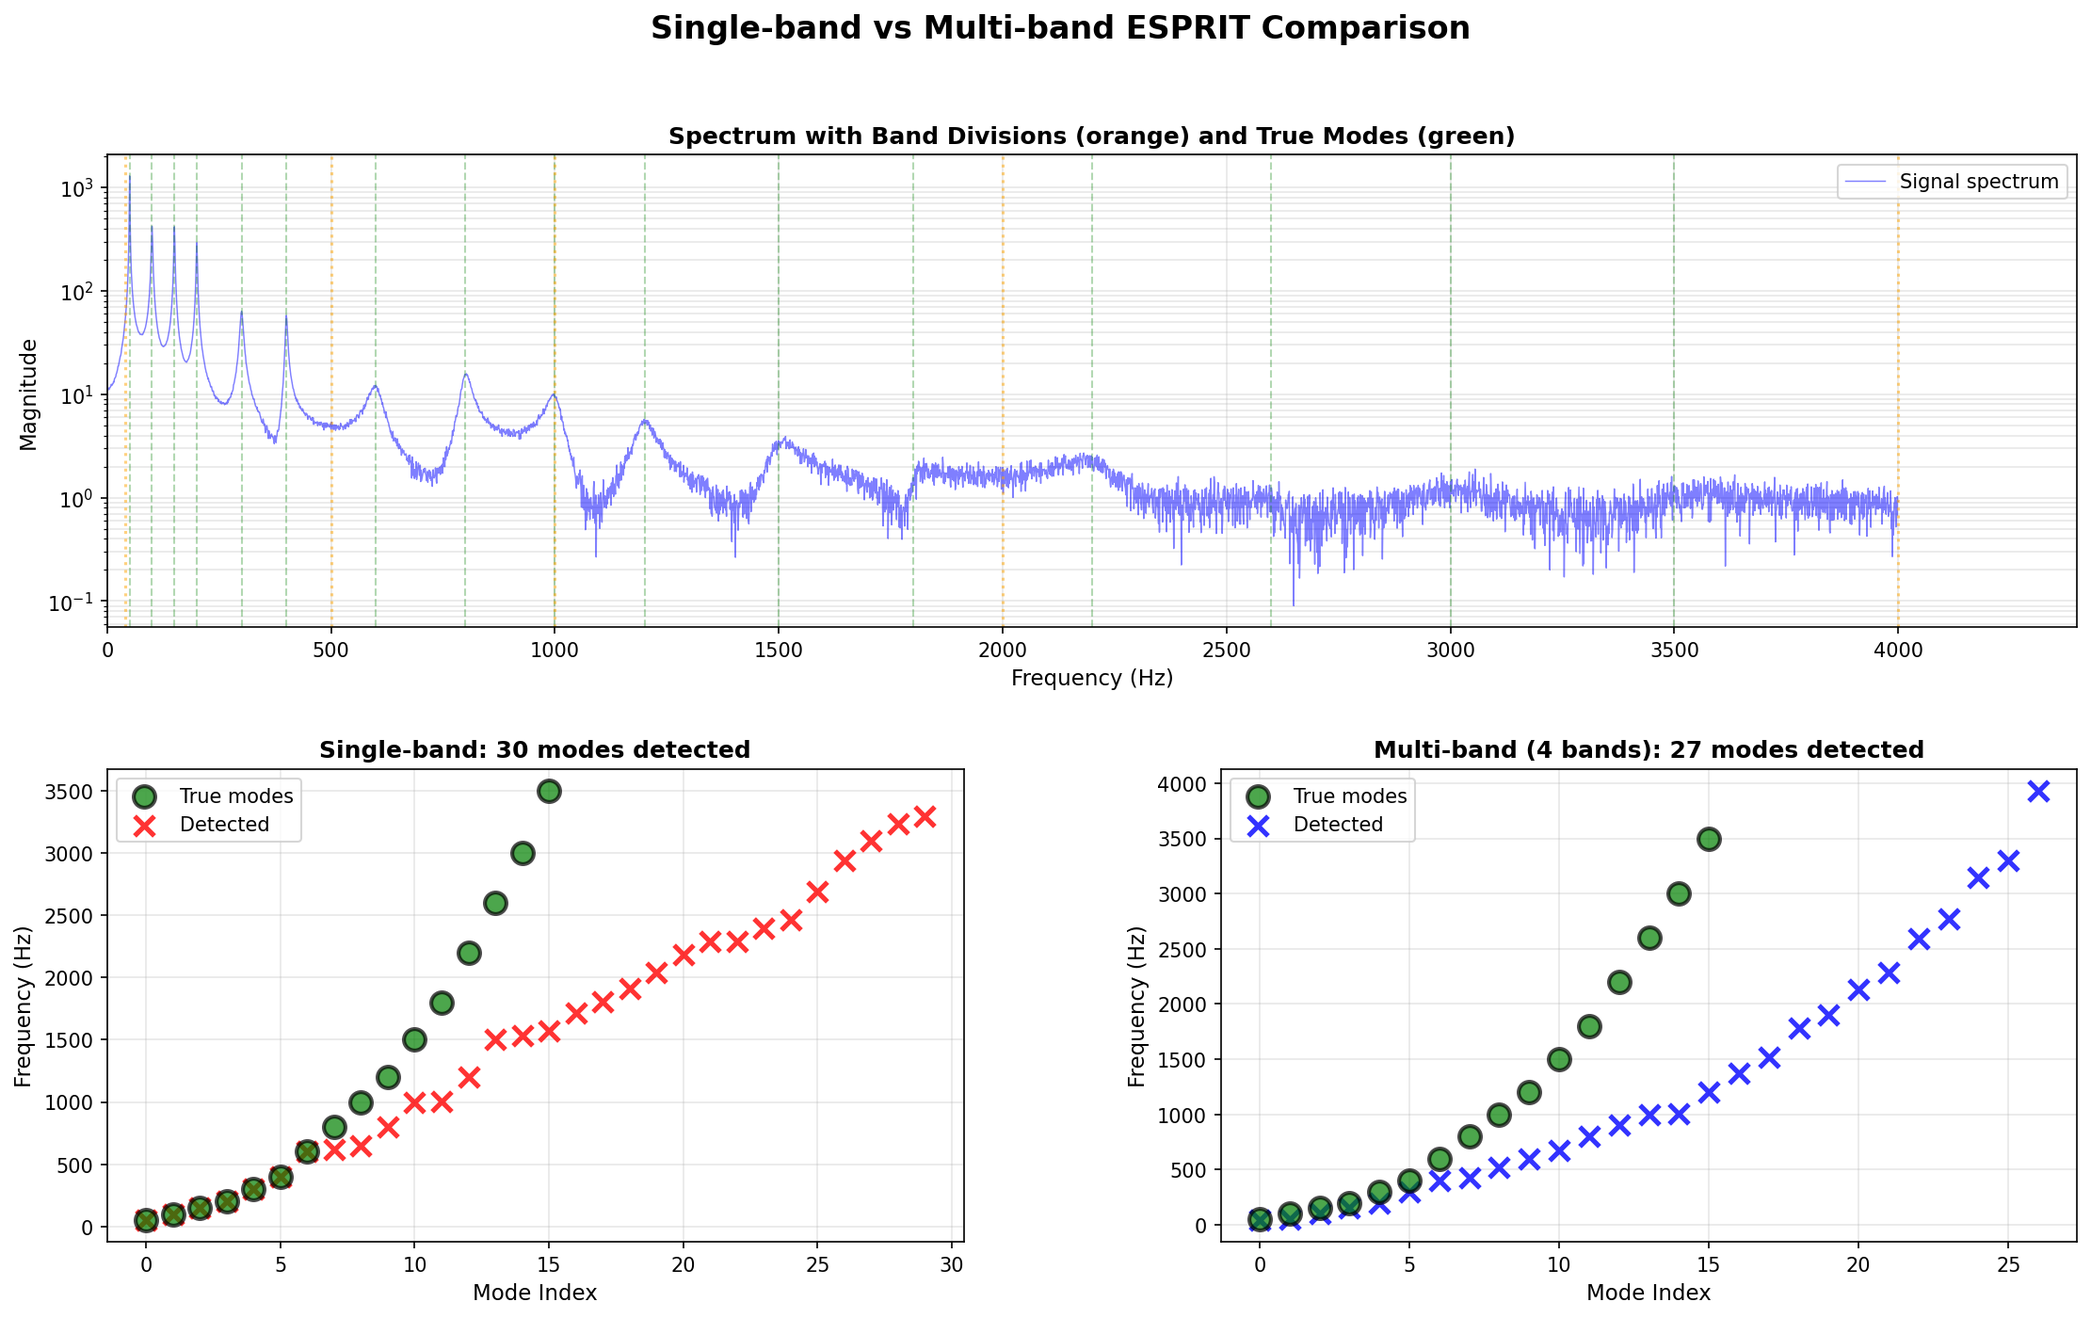
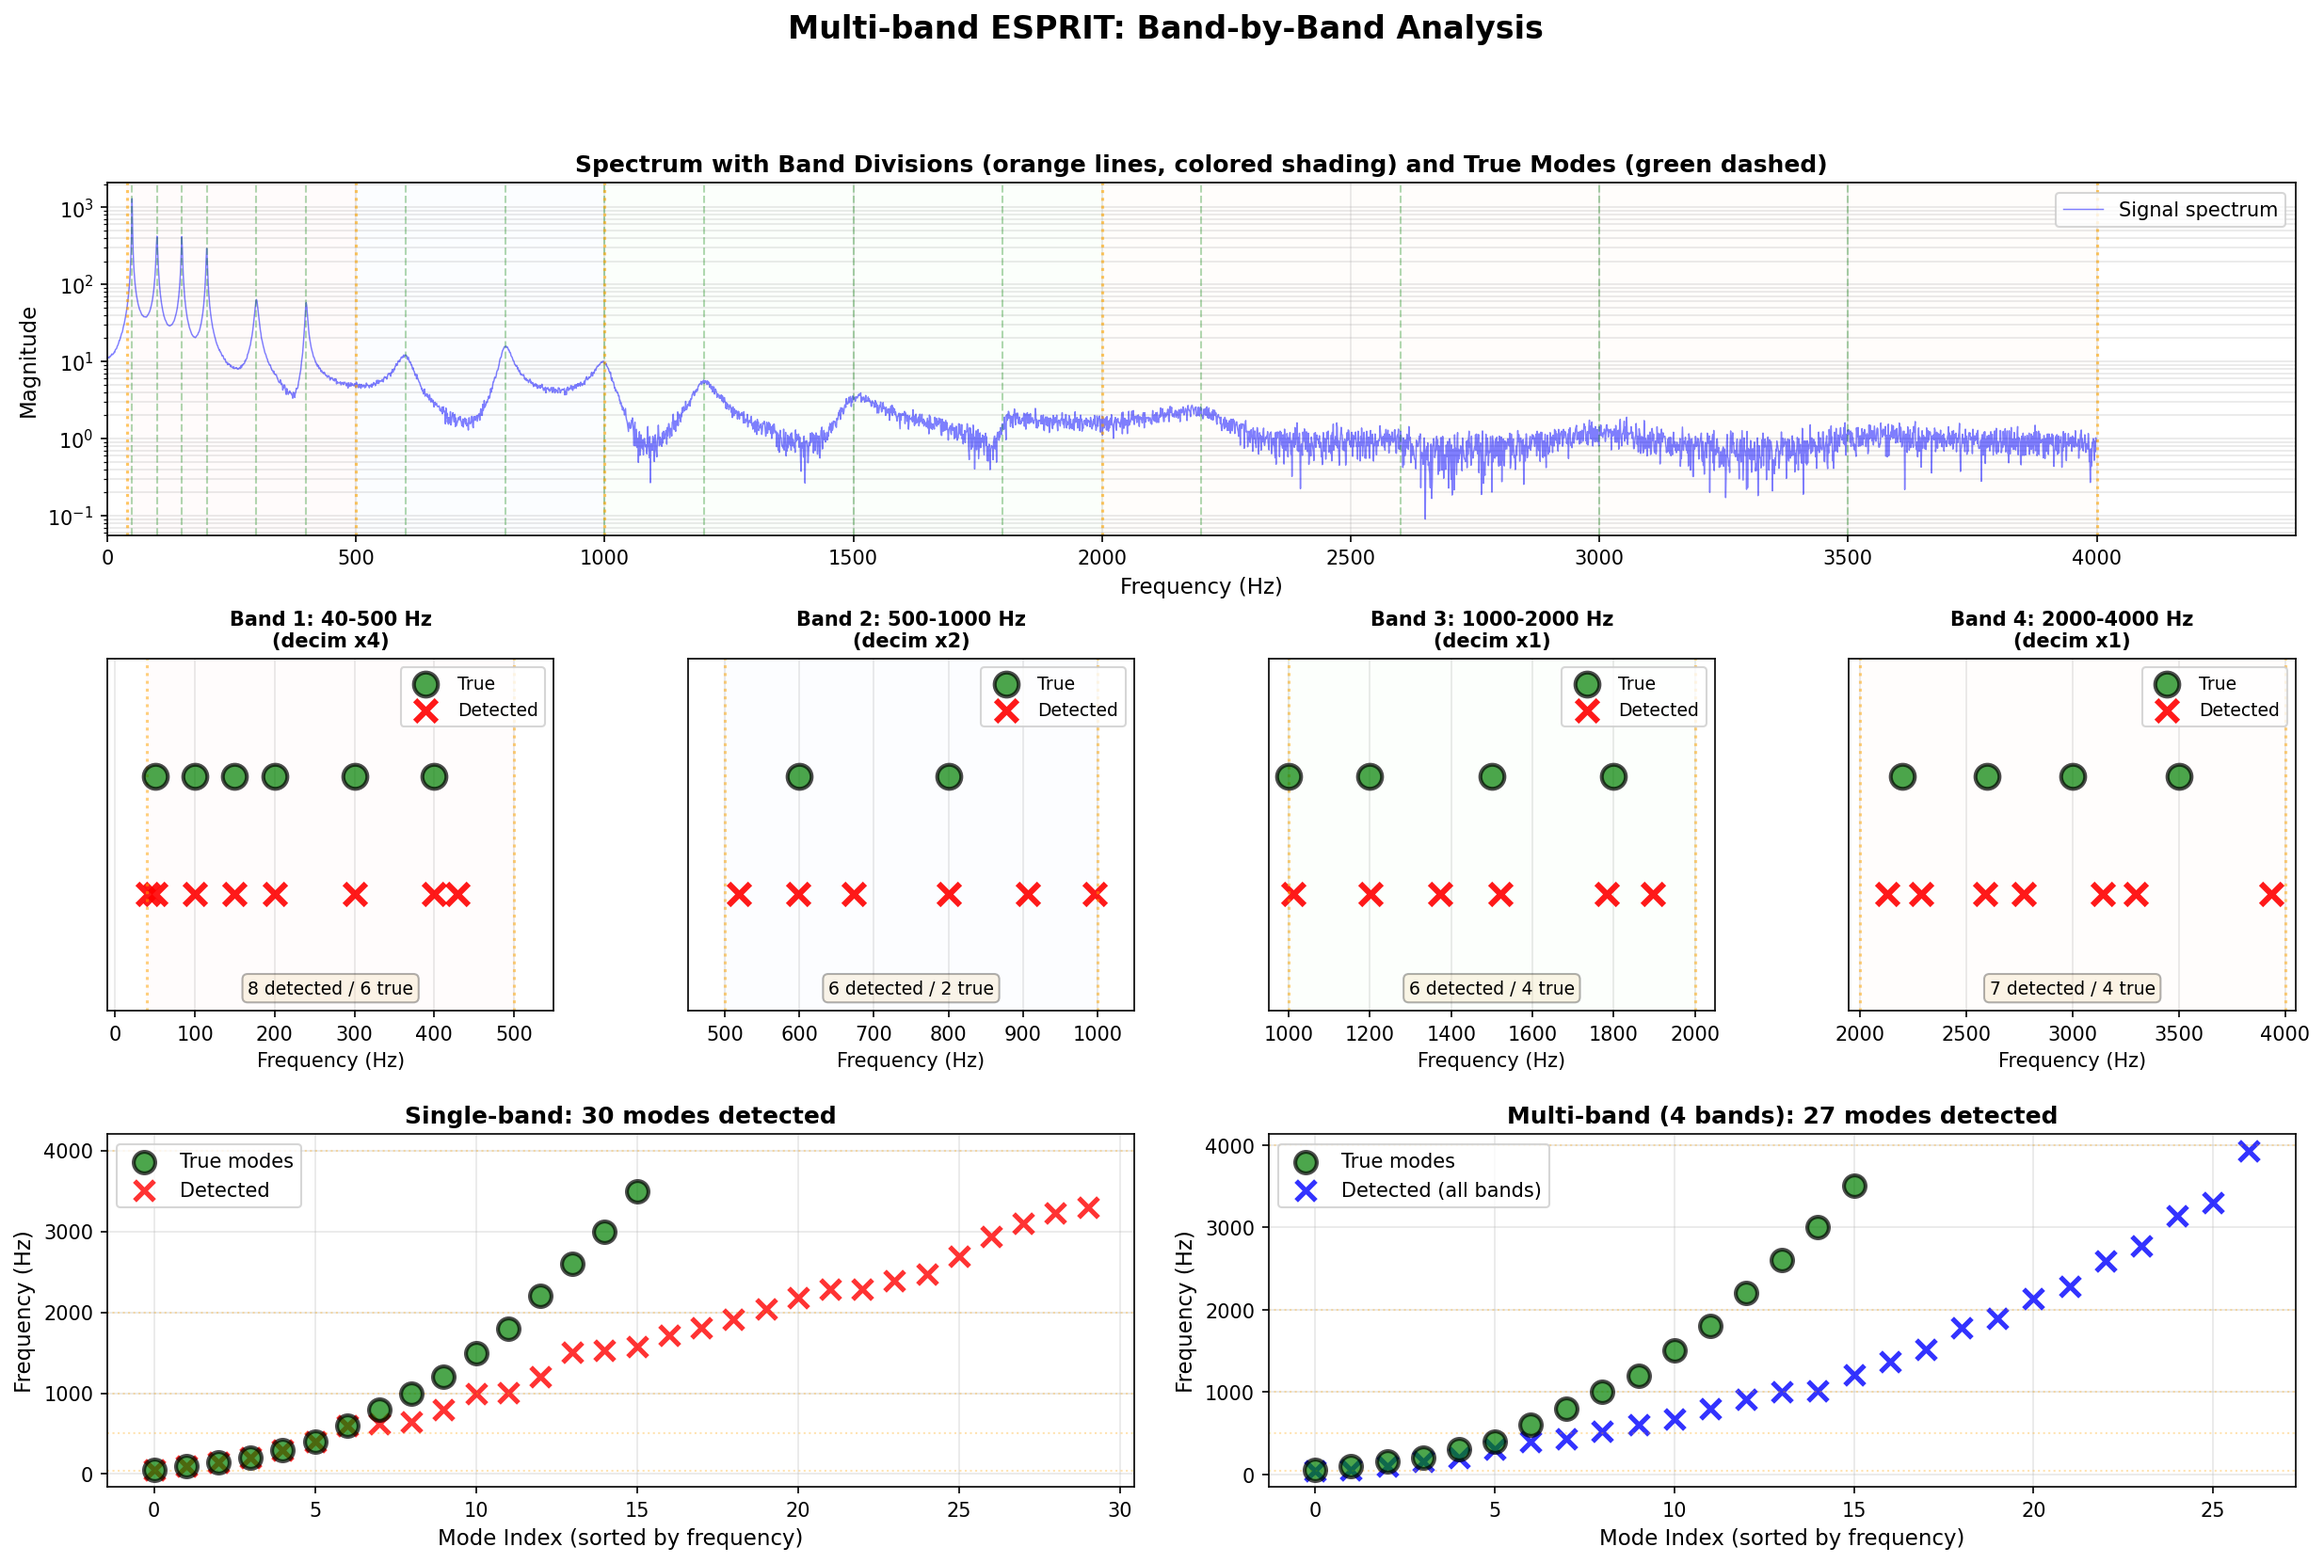
feat: Add band-by-band visualization to multi-band test
Enhanced visualization with 3-row layout:

Row 1 (top): FFT spectrum with colored band shading
- Band 1 (red): 40-500 Hz
- Band 2 (blue): 500-1000 Hz
- Band 3 (green): 1000-2000 Hz
- Band 4 (yellow): 2000-4000 Hz
- Orange lines mark band boundaries
- Green dashed lines mark true mode frequencies

Row 2 (middle): 4 band-specific subplots
- Each shows detected (red X) vs true (green O) modes
- Y-axis removed (just frequency on X-axis)
- Text box shows "N detected / M true" for each band
- Clearly visualizes which modes were found in each band

Row 3 (bottom): Overall comparison
- Left: Single-band detected modes (red X)
- Right: Multi-band combined modes (blue X)
- Both compared against true modes (green O)
- Band boundaries shown as horizontal lines

Results clearly show:
- Band 1: 8/6 modes (2 spurious, good low-freq detection)
- Band 2: 6/2 modes (4 spurious)
- Band 3: 6/4 modes (2 spurious)
- Band 4: 7/4 modes (3 spurious)

Multi-band still 1.81x faster (10.9s vs 19.7s) with similar accuracy.

diff --git a/ESPRIT/test_multiband_comparison.py b/ESPRIT/test_multiband_comparison.py
@@ -341,13 +341,13 @@ def run_comparison_test():
 def create_comparison_plots(true_modes, result_single, result_multi, signal_data, fs):
     """Create visualization comparing single-band vs multi-band."""
 
-    fig = plt.figure(figsize=(18, 10))
-    gs = GridSpec(2, 2, figure=fig, hspace=0.3, wspace=0.3)
+    fig = plt.figure(figsize=(20, 12))
+    gs = GridSpec(3, 4, figure=fig, hspace=0.35, wspace=0.3)
 
     true_freqs = np.array([f for f, _, _, _ in true_modes])
     true_freqs_sorted = np.sort(true_freqs)
 
-    # FFT Spectrum
+    # FFT Spectrum (top row, span all columns)
     ax_fft = fig.add_subplot(gs[0, :])
     from scipy.fft import rfft, rfftfreq
     fft_vals = rfft(signal_data)
@@ -359,21 +359,70 @@ def create_comparison_plots(true_modes, result_single, result_multi, signal_data
     for f in true_freqs:
         ax_fft.axvline(f, color='green', linestyle='--', alpha=0.3, linewidth=1)
 
-    # Mark band boundaries
-    for band_config in BAND_CONFIGS:
-        ax_fft.axvline(band_config.low_freq, color='orange', linestyle=':', alpha=0.5, linewidth=1.5)
-    ax_fft.axvline(BAND_CONFIGS[-1].high_freq, color='orange', linestyle=':', alpha=0.5, linewidth=1.5)
+    # Mark band boundaries and shade bands
+    band_colors = ['#FFE5E5', '#E5F5FF', '#E5FFE5', '#FFF5E5']
+    for i, band_config in enumerate(BAND_CONFIGS):
+        ax_fft.axvspan(band_config.low_freq, band_config.high_freq,
+                      alpha=0.15, color=band_colors[i], zorder=0)
+        ax_fft.axvline(band_config.low_freq, color='orange', linestyle=':', alpha=0.6, linewidth=1.5)
+    ax_fft.axvline(BAND_CONFIGS[-1].high_freq, color='orange', linestyle=':', alpha=0.6, linewidth=1.5)
 
     ax_fft.set_xlabel('Frequency (Hz)', fontsize=11)
     ax_fft.set_ylabel('Magnitude', fontsize=11)
-    ax_fft.set_title('Spectrum with Band Divisions (orange) and True Modes (green)',
+    ax_fft.set_title('Spectrum with Band Divisions (orange lines, colored shading) and True Modes (green dashed)',
                      fontsize=12, fontweight='bold')
     ax_fft.grid(True, alpha=0.3, which='both')
     ax_fft.set_xlim([0, 4400])
     ax_fft.legend(fontsize=10)
 
-    # Frequency comparison - Single-band
-    ax_single = fig.add_subplot(gs[1, 0])
+    # Band-by-band analysis (middle row, 4 subplots)
+    band_titles = [
+        f'Band 1: {BAND_CONFIGS[0].low_freq:.0f}-{BAND_CONFIGS[0].high_freq:.0f} Hz\n(decim x{BAND_CONFIGS[0].decimate_factor})',
+        f'Band 2: {BAND_CONFIGS[1].low_freq:.0f}-{BAND_CONFIGS[1].high_freq:.0f} Hz\n(decim x{BAND_CONFIGS[1].decimate_factor})',
+        f'Band 3: {BAND_CONFIGS[2].low_freq:.0f}-{BAND_CONFIGS[2].high_freq:.0f} Hz\n(decim x{BAND_CONFIGS[2].decimate_factor})',
+        f'Band 4: {BAND_CONFIGS[3].low_freq:.0f}-{BAND_CONFIGS[3].high_freq:.0f} Hz\n(decim x{BAND_CONFIGS[3].decimate_factor})'
+    ]
+
+    for i, (band_result, band_config, band_color) in enumerate(zip(
+            result_multi['band_results'], BAND_CONFIGS, band_colors)):
+
+        ax_band = fig.add_subplot(gs[1, i])
+
+        # True modes in this band
+        band_low, band_high = band_result['band_range']
+        true_in_band = true_freqs[(true_freqs >= band_low) & (true_freqs < band_high)]
+
+        # Plot true modes
+        if len(true_in_band) > 0:
+            y_true = np.ones(len(true_in_band)) * 1.0
+            ax_band.scatter(true_in_band, y_true, s=150, marker='o',
+                          color='green', label='True', alpha=0.7,
+                          edgecolors='black', linewidth=2, zorder=3)
+
+        # Plot detected modes
+        if band_result['n_modes'] > 0:
+            y_detected = np.ones(len(band_result['frequencies'])) * 0.5
+            ax_band.scatter(band_result['frequencies'], y_detected, s=120, marker='x',
+                          color='red', label='Detected', alpha=0.9, linewidth=3, zorder=2)
+
+        ax_band.set_xlim([band_low - 50, band_high + 50])
+        ax_band.set_ylim([0, 1.5])
+        ax_band.set_xlabel('Frequency (Hz)', fontsize=10)
+        ax_band.set_yticks([])
+        ax_band.set_title(band_titles[i], fontsize=10, fontweight='bold')
+        ax_band.axvspan(band_low, band_high, alpha=0.1, color=band_color, zorder=0)
+        ax_band.axvline(band_low, color='orange', linestyle=':', alpha=0.5, linewidth=1.5)
+        ax_band.axvline(band_high, color='orange', linestyle=':', alpha=0.5, linewidth=1.5)
+        ax_band.legend(fontsize=9, loc='upper right')
+        ax_band.grid(True, alpha=0.3, axis='x')
+
+        # Add text showing counts
+        ax_band.text(0.5, 0.05, f'{band_result["n_modes"]} detected / {len(true_in_band)} true',
+                    transform=ax_band.transAxes, ha='center', fontsize=9,
+                    bbox=dict(boxstyle='round', facecolor='wheat', alpha=0.3))
+
+    # Frequency comparison - Single-band (bottom row, left 2 columns)
+    ax_single = fig.add_subplot(gs[2, :2])
 
     x_true = np.arange(len(true_freqs_sorted))
     ax_single.scatter(x_true, true_freqs_sorted, s=120, marker='o',
@@ -386,15 +435,20 @@ def create_comparison_plots(true_modes, result_single, result_multi, signal_data
         ax_single.scatter(x_est, freq_sorted, s=100, marker='x',
                          color='red', label='Detected', alpha=0.8, linewidth=2.5, zorder=2)
 
-    ax_single.set_xlabel('Mode Index', fontsize=11)
+    # Add band boundary lines
+    for band_config in BAND_CONFIGS:
+        ax_single.axhline(band_config.low_freq, color='orange', linestyle=':', alpha=0.3, linewidth=1)
+    ax_single.axhline(BAND_CONFIGS[-1].high_freq, color='orange', linestyle=':', alpha=0.3, linewidth=1)
+
+    ax_single.set_xlabel('Mode Index (sorted by frequency)', fontsize=11)
     ax_single.set_ylabel('Frequency (Hz)', fontsize=11)
     ax_single.set_title(f'Single-band: {len(result_single.frequencies)} modes detected',
                        fontsize=12, fontweight='bold')
     ax_single.legend(fontsize=10)
     ax_single.grid(True, alpha=0.3)
 
-    # Frequency comparison - Multi-band
-    ax_multi = fig.add_subplot(gs[1, 1])
+    # Frequency comparison - Multi-band (bottom row, right 2 columns)
+    ax_multi = fig.add_subplot(gs[2, 2:])
 
     ax_multi.scatter(x_true, true_freqs_sorted, s=120, marker='o',
                     color='green', label='True modes', alpha=0.7,
@@ -404,9 +458,14 @@ def create_comparison_plots(true_modes, result_single, result_multi, signal_data
         freq_sorted = np.sort(result_multi['frequencies'])
         x_est = np.arange(len(freq_sorted))
         ax_multi.scatter(x_est, freq_sorted, s=100, marker='x',
-                        color='blue', label='Detected', alpha=0.8, linewidth=2.5, zorder=2)
+                        color='blue', label='Detected (all bands)', alpha=0.8, linewidth=2.5, zorder=2)
 
-    ax_multi.set_xlabel('Mode Index', fontsize=11)
+    # Add band boundary lines
+    for band_config in BAND_CONFIGS:
+        ax_multi.axhline(band_config.low_freq, color='orange', linestyle=':', alpha=0.3, linewidth=1)
+    ax_multi.axhline(BAND_CONFIGS[-1].high_freq, color='orange', linestyle=':', alpha=0.3, linewidth=1)
+
+    ax_multi.set_xlabel('Mode Index (sorted by frequency)', fontsize=11)
     ax_multi.set_ylabel('Frequency (Hz)', fontsize=11)
     ax_multi.set_title(f'Multi-band (4 bands): {result_multi["n_modes"]} modes detected',
                       fontsize=12, fontweight='bold')
@@ -414,7 +473,7 @@ def create_comparison_plots(true_modes, result_single, result_multi, signal_data
     ax_multi.grid(True, alpha=0.3)
 
     # Overall title
-    fig.suptitle('Single-band vs Multi-band ESPRIT Comparison',
+    fig.suptitle('Multi-band ESPRIT: Band-by-Band Analysis',
                 fontsize=16, fontweight='bold')
 
     # Save
